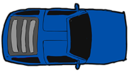
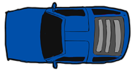
Game play works

diff --git a/pages/gamePage.js b/pages/gamePage.js
@@ -20,7 +20,7 @@ miniGame.pages['gamePage'] = (function(model, screens, graphics, input) {
         cars = [],
         logs = [];
         let score = 0;
-        let seconds = 15;
+        let seconds = 30;
 
         const sleep = (milliseconds) => {
             return new Promise(resolve => setTimeout(resolve, milliseconds))
@@ -76,8 +76,8 @@ miniGame.pages['gamePage'] = (function(model, screens, graphics, input) {
         console.log("adding cars!")
         for(i=1; i<=5; i++){
             let w = 90;
-            if(i==4){w *= 2;}
-            else if(i==5){ w *= 3}
+            if(i==4){w *= 1.5;}
+            else if(i==5){ w *= 2}
             let xpos = Math.round(Math.random()*300)
             while(xpos < 600){
                 cars.push(
@@ -194,7 +194,7 @@ miniGame.pages['gamePage'] = (function(model, screens, graphics, input) {
                 })
             )
 
-            seconds = 15;
+            seconds = 30;
             progress = 680;
             frog.center.x = 300;
             frog.center.y = 680;
@@ -219,7 +219,7 @@ miniGame.pages['gamePage'] = (function(model, screens, graphics, input) {
         })
         console.log("game over");
 
-        seconds = 15;
+        seconds = 30;
         frog.center.y = -80000;   
 
         //deadFrog.render();
@@ -245,16 +245,20 @@ miniGame.pages['gamePage'] = (function(model, screens, graphics, input) {
 	}
 
 	function update(elapsedTime) {
+        console.log(cars.length);
         endHit();
         genCollision();
         incrementProg();
         if(frog.center.y < 305 && frog.center.y > 42){
             console.log("in river");
             if(!onLog()){ gameOver();}
+            else{
+                console.log("NOT GAME OVER")
+            }
         }
         document.getElementById('score').innerHTML = score;
         document.getElementById('time').innerHTML = seconds;
-        if(seconds == 0) {gameOver();}
+        //if(seconds == 0) {gameOver();}
     }
 
     function incrementProg(){
@@ -266,14 +270,11 @@ miniGame.pages['gamePage'] = (function(model, screens, graphics, input) {
     
     function genCollision(){
 
-        //console.log(cars)
-
-        //let frogHit = false;
-
         if(!frogHit){
             for(let i=0;i<cars.length;i++){
                 if(isHit(cars[i])){
                     frogHit = true;
+                    console.log("car hit frog");
                     gameOver();
                 }
             }
@@ -281,7 +282,7 @@ miniGame.pages['gamePage'] = (function(model, screens, graphics, input) {
     }
     
     function isHit(curCar){
-        //let time = performance.now();
+
         if(lineCircleIntersection(
             {x:curCar.center.x - curCar.size.width/2, y:curCar.center.y}, 
             {x:curCar.center.x + curCar.size.width/2, y:curCar.center.y}, 
@@ -289,15 +290,13 @@ miniGame.pages['gamePage'] = (function(model, screens, graphics, input) {
         {
             return true;
         }
-        //let finish = performance.now();
-        //console.log("Collision time: ",finish-time)
     }
 
     function onLog(){
         let on = false;
         logs.forEach(l => {
             if(frog.center.y == l.center.y){
-                if(frog.center.x >= l.center.x-l.size.width && frog.center.x <= l.center.x+l.size.width){
+                if(frog.center.x >= l.center.x-l.size.width/2 && frog.center.x <= l.center.x+l.size.width/2){
                     if(!on){
                         if(l.center.y == 248 || l.center.y ==140){frog.center.x += l.moveRate;}
                         else {frog.center.x -= l.moveRate;}
@@ -307,7 +306,7 @@ miniGame.pages['gamePage'] = (function(model, screens, graphics, input) {
                 }
             }
         });
-        return true;
+        return on;
     }
 
 	function lineCircleIntersection(pt1, pt2, circle) {

diff --git a/scripts/Log.js b/scripts/Log.js
@@ -15,19 +15,28 @@ miniGame.log = function(spec) {
         
         context.save();
 
-        center.x += spec.moveRate;
-        if(center.x > 600+spec.size.width/2){ // this wraps logs
-            center.x = -spec.size.width/2;
-        }
+        // if(dir==1){ // right traveling cars
+            
+        //     context.translate(center.x, center.y);
+        //     context.translate(-center.x, -center.y);
+        // }
+        // else{ // left traveling cars
+        //     context.translate(center.x+600, center.y);
+        //     context.translate(-center.x, -center.y);
+        //     context.scale(-1,1);
+        // }
 
         if(dir==1){ // right traveling cars
-            context.translate(center.x, center.y);
-            context.translate(-center.x, -center.y);
+            center.x += spec.moveRate;
+            if(center.x > 600 + spec.size.width/2){ // this wraps cars
+                spec.center.x = -spec.size.width/2;
+            }
         }
         else{ // left traveling cars
-            context.translate(center.x+600, center.y);
-            context.translate(-center.x, -center.y);
-            context.scale(-1,1);
+            center.x -= spec.moveRate;
+            if(center.x < 0 - spec.size.width/2){ // this wraps cars
+                spec.center.x = 600+spec.size.width/2;
+            }
         }
 
         context.drawImage(

diff --git a/scripts/Car.js b/scripts/Car.js
@@ -15,21 +15,17 @@ miniGame.car = function(spec) {
         
         context.save();
 
-        if(center.x > 600 + spec.size.width/2){ // this wraps cars
-            center.x = -spec.size.width/2;
-        }
-
         if(dir==1){ // right traveling cars
             center.x += spec.moveRate;
-            context.translate(center.x, center.y);
-            context.translate(-center.x, -center.y);
+            if(center.x > 600 + spec.size.width/2){ // this wraps cars
+                spec.center.x = -spec.size.width/2;
+            }
         }
         else{ // left traveling cars
-            //context.translate(size.width, 0);
-            center.x += spec.moveRate;
-            context.translate(center.x+600, center.y);
-            context.translate(-center.x, -center.y);
-            context.scale(-1,1);
+            center.x -= spec.moveRate;
+            if(center.x < 0 - spec.size.width/2){ // this wraps cars
+                spec.center.x = 600+spec.size.width/2;
+            }
         }
 
         context.drawImage(
